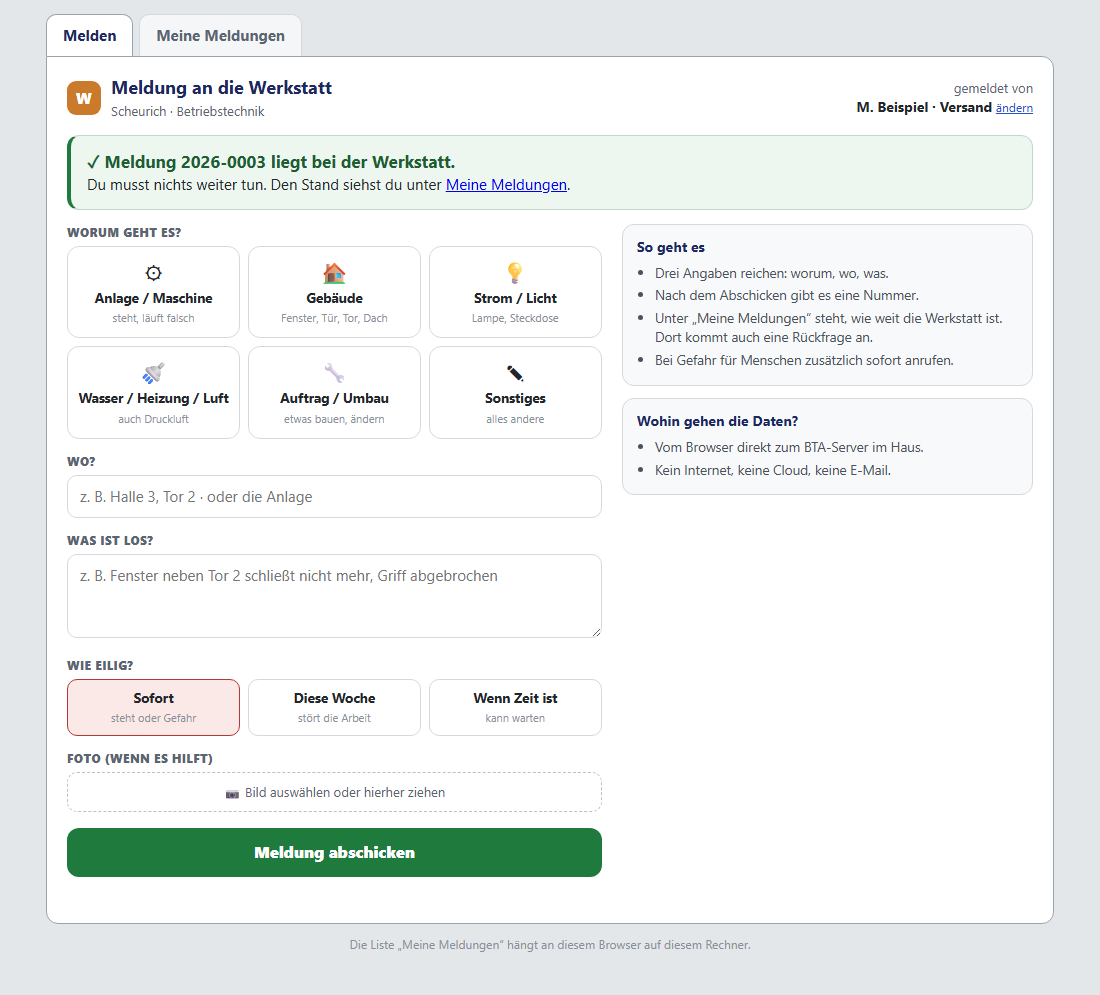
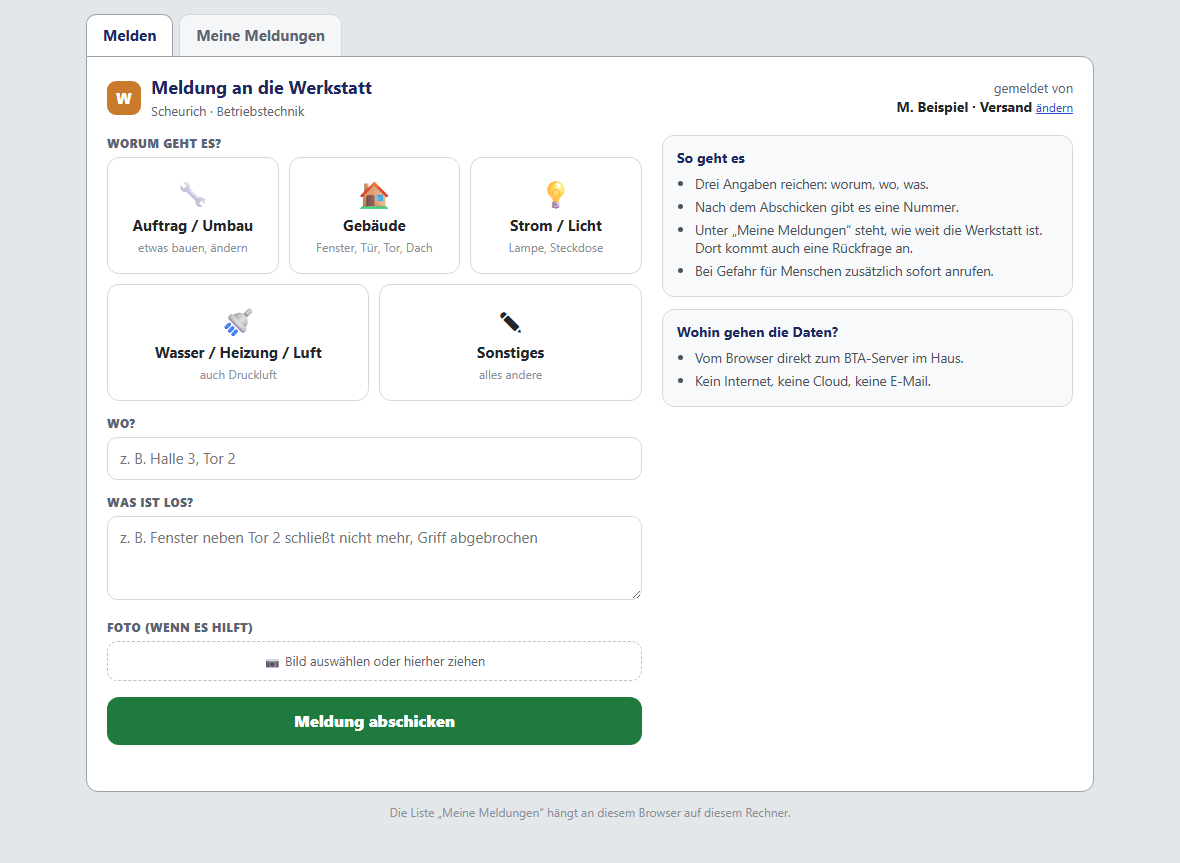
Roll-out 85: Melde-Seite ohne Kachel Anlage/Maschine, fuenf groessere Kacheln nach dem Abc (Robertos Ansage 25.11.) - Pruefung B11 mit Rot-Nachweis, am Server eingespielt

diff --git a/melden/ticket-melden.html b/melden/ticket-melden.html
@@ -35,12 +35,20 @@
   label.t:first-child { margin-top: 0; }
   .feld { width: 100%; border: 1px solid var(--rand); border-radius: 10px; padding: 10px 12px; font: inherit; background: #fff; color: inherit; }
   textarea.feld { min-height: 84px; resize: vertical; }
-  .kacheln { display: grid; grid-template-columns: repeat(3, minmax(0, 1fr)); gap: 8px; }
-  @media (max-width: 520px) { .kacheln { grid-template-columns: repeat(2, minmax(0, 1fr)); } }
-  .kachel { border: 1.5px solid var(--rand); border-radius: 12px; background: #fff; padding: 10px 8px; text-align: center; cursor: pointer; font: inherit; color: inherit; }
-  .kachel .bild { font-size: 22px; display: block; }
-  .kachel b { display: block; font-size: 13.5px; }
-  .kachel small { color: #8A9099; font-size: 11px; }
+  /* Fünf Kacheln (Robertos Ansage 25.11.: „Anlage muss raus, dafür die Kästchen etwas
+     größer und sortiert“): oben drei, unten zwei breitere - so bleibt keine Lücke.
+     Sechs Rasterspalten, damit sich 3 × 2 und 2 × 3 Spalten sauber teilen. */
+  .kacheln { display: grid; grid-template-columns: repeat(6, minmax(0, 1fr)); gap: 10px; }
+  .kachel { grid-column: span 2; border: 1.5px solid var(--rand); border-radius: 12px; background: #fff; padding: 16px 10px; text-align: center; cursor: pointer; font: inherit; color: inherit; }
+  .kachel:nth-child(n+4) { grid-column: span 3; }
+  @media (max-width: 520px) {
+    .kacheln { grid-template-columns: repeat(2, minmax(0, 1fr)); }
+    .kachel, .kachel:nth-child(n+4) { grid-column: span 1; }
+    .kachel:last-child { grid-column: span 2; }
+  }
+  .kachel .bild { font-size: 28px; display: block; margin-bottom: 2px; }
+  .kachel b { display: block; font-size: 15px; }
+  .kachel small { color: #8A9099; font-size: 12px; }
   .kachel[aria-pressed="true"] { border-color: var(--blau); background: #EDF0FA; box-shadow: inset 0 0 0 1px var(--blau); }
   .foto { border: 1.5px dashed #B8C0C8; border-radius: 10px; padding: 10px; text-align: center; color: var(--grau); font-size: 13px; cursor: pointer; }
   .foto.drueber { border-color: var(--blau); background: #EDF0FA; }
@@ -109,15 +117,16 @@
           <div>
             <label class="t">Worum geht es?</label>
             <div class="kacheln" id="arten">
-              <button type="button" class="kachel" aria-pressed="false" data-art="Anlage / Maschine"><span class="bild">⚙</span><b>Anlage / Maschine</b><small>steht, läuft falsch</small></button>
+              <!-- Nach dem Abc sortiert, „Sonstiges“ als Auffangbecken zuletzt. Störungen an
+                   Anlagen laufen über die Störberichte im Cockpit, nicht über diese Seite. -->
+              <button type="button" class="kachel" aria-pressed="false" data-art="Auftrag / Umbau"><span class="bild">🔧</span><b>Auftrag / Umbau</b><small>etwas bauen, ändern</small></button>
               <button type="button" class="kachel" aria-pressed="false" data-art="Gebäude"><span class="bild">🏠</span><b>Gebäude</b><small>Fenster, Tür, Tor, Dach</small></button>
               <button type="button" class="kachel" aria-pressed="false" data-art="Strom / Licht"><span class="bild">💡</span><b>Strom / Licht</b><small>Lampe, Steckdose</small></button>
               <button type="button" class="kachel" aria-pressed="false" data-art="Wasser / Heizung / Luft"><span class="bild">🚿</span><b>Wasser / Heizung / Luft</b><small>auch Druckluft</small></button>
-              <button type="button" class="kachel" aria-pressed="false" data-art="Auftrag / Umbau"><span class="bild">🔧</span><b>Auftrag / Umbau</b><small>etwas bauen, ändern</small></button>
               <button type="button" class="kachel" aria-pressed="false" data-art="Sonstiges"><span class="bild">✎</span><b>Sonstiges</b><small>alles andere</small></button>
             </div>
             <label class="t" for="ort">Wo?</label>
-            <input class="feld" id="ort" list="orte" maxlength="120" placeholder="z. B. Halle 3, Tor 2 · oder die Anlage">
+            <input class="feld" id="ort" list="orte" maxlength="120" placeholder="z. B. Halle 3, Tor 2">
             <datalist id="orte"></datalist>
             <label class="t" for="text">Was ist los?</label>
             <textarea class="feld" id="text" maxlength="2000" placeholder="z. B. Fenster neben Tor 2 schließt nicht mehr, Griff abgebrochen"></textarea>

diff --git a/tests/server/pruefe-tickets.js b/tests/server/pruefe-tickets.js
@@ -46,6 +46,8 @@
 //        nicht nach der Eile und zeigt sie auch in „Meine Meldungen“ nicht -
 //        die Meldung kommt trotzdem an (der Dienst 0.7.0 verlangt die Angabe,
 //        die Seite schickt deshalb immer denselben Wert mit).
+//  (B11) Robertos Ansage 25.11.: fünf Kacheln ohne „Anlage / Maschine“, nach dem
+//        Abc sortiert („Sonstiges“ zuletzt) und größer als bisher.
 //
 // Rot-Nachweis: DIENST_ORDNER=<Ordner mit dienst.js/db.js vom Stand 0.6.1>
 // node --no-warnings tests/server/pruefe-tickets.js  -> T1 ff. rot (kein Ticket-Weg),
@@ -225,6 +227,13 @@ const beende = (kind) => new Promise((r) => { kind.once("exit", r); kind.kill();
   await p.locator("#senden").click();
   const fehlt = await p.locator("#fehlt").innerText();
   ok("(B1) Leer abschicken nennt Name, Abteilung, worum, wo, was", /dein Name/.test(fehlt) && /deine Abteilung/.test(fehlt) && /worum es geht/.test(fehlt) && /\bwo\b/.test(fehlt) && /was los ist/.test(fehlt), fehlt);
+
+  /* (B11) Robertos Ansage 25.11.: „Anlage muss raus, dafür die Kästchen etwas größer und sortiert“ */
+  const kacheln = await p.locator("#arten .kachel").evaluateAll((z) => z.map((k) => ({ art: k.dataset.art, h: Math.round(k.getBoundingClientRect().height), b: Math.round(k.getBoundingClientRect().width) })));
+  const namen = kacheln.map((k) => k.art);
+  const sortiertSoll = [...namen.slice(0, -1)].sort((a, b) => a.localeCompare(b, "de"));
+  ok("(B11) Fünf Kacheln ohne „Anlage / Maschine“, nach dem Abc, „Sonstiges“ zuletzt", namen.length === 5 && !namen.some((n) => /Anlage|Maschine/.test(n)) && namen[4] === "Sonstiges" && namen.slice(0, -1).join("|") === sortiertSoll.join("|"), namen.join(" | "));
+  ok("(B11) Kacheln größer als bisher (gemessen 25.11.: bisher 93 px hoch): mindestens 110 px, im Platzhalter von „Wo?“ keine Anlage", kacheln.every((k) => k.h >= 110) && !/Anlage/.test(await p.locator("#ort").getAttribute("placeholder")), kacheln.map((k) => `${k.b}×${k.h}`).join(" "));
 
   /* (B10) erster Teil: das Formular kennt keine Eile mehr */
   const formularText = (await p.locator('[data-seite="melden"]').innerText()).replace(/\s+/g, " ");

diff --git a/ROLLOUT-LISTE.md b/ROLLOUT-LISTE.md
@@ -1271,7 +1271,7 @@ Kurzliste, Details stehen in den jeweiligen Blöcken darunter:
 
 84. **Schichten fortschreiben ins Jahr 2027** (Roberto 06.11., zwei Bilder des Schichtplans: „Die Schichten Früh / Spät / Spät mit Bereitschaft / Nacht / Bereitschaft am Wochenende müssen für alle Mitarbeiter kontinuierlich weiter gehen im selben Schema für 27“). **Gemessen 06.11. in den W:-Daten (nur gelesen):** 2684 SCHICHT-Einträge, davon 2663 als Tag (scope `tag`), nur 21 als Woche – der Plan lebt also tageweise; letzter Eintrag 31.12.2026, für 2027 nichts. Je Person läuft ein fester Takt, meist 12 Wochen (Balles, Becker, Giaquinta, Tiano, Yakar, Roberto), bei Kranich, Kilic, Ott, Wiesner 10 Wochen; Bereitschaft steht als `Bereits.` an Sa/So. Dazwischen Urlaub/Krank/Schule/Mainsite, die nicht zum Takt gehören; Weihnachten 2026 ist von Hand frei gelassen (25.12., 1.1.). **GEBAUT 06.11.:** `app/src/schichtmuster.js` (reine Rechenlogik, ohne React): `periodeErkennen` vergleicht Tag für Tag jede Woche mit der Woche p Wochen später – nur dort, wo beide Seiten eine Schema-Schicht tragen (leere Tage und Abwesenheiten sagen nichts), kürzester Takt mit ≥ 75 % Treffern und ≥ 20 Vergleichen gewinnt; `vorlageBauen` nimmt je Takt-Position und Wochentag die Mehrheit der letzten vier bekannten Durchläufe (Gleichstand: der jüngste) und macht aus Mo–Fr immer eine ganze Woche (Mehrheit ≥ 3 Tage, sonst leer); `fortschreibenFuer` schreibt ab der Woche nach der letzten Schema-Schicht (frühestens ab heute – ein Sommer-Urlaub 2027 blockiert nichts) bis zum Datum, überschreibt nie, lässt Feiertage frei. Im Schichtplan (nur mit Schreibrecht): Knopf **„↻ Schichten fortschreiben …“** → Dialog mit Datum (Vorgabe 31.12. des Folgejahres), je Person Takt, Trefferquote, Schema als Kürzel-Zellen, Start, Zahl neuer Einträge, Häkchen zum Abwählen; Übersprungene mit Grund („noch keine Schichten“, „kein gleichmäßiges Muster“, „zu wenig Wochen“); „N Einträge jetzt eintragen“ → ein `persist`, Fertig-Meldung. **Vorschau mit den echten W:-Daten (Bild `doku/bilder/schichten-fortschreiben-vorschau.png`):** 10 Personen erkannt, 1245 neue Einträge bis 31.12.2027; übersprungen: Xaver (Mainsite-Wochen), Azubis (Schule), M. Odenwald (zu wenig), Namen ohne Schichten. **Zu prüfen von Roberto vor dem Klick:** M Yakar – die Weihnachtswoche (KW 53: Früh) ist gegenüber seinem 12er-Takt um eine Woche verschoben, der Vorschlag macht ab KW 1 „Spät mit B, Nacht“ weiter; Roberto selbst bekommt aus seinen Daten nur Früh/Spät mit B und ein Bereitschafts-Wochenende. Einzelne Tage lassen sich danach wie immer per Klick ändern. **harte-114** (13 Prüfungen: Knopf, Dialog mit Takt 12 / Übersprungene, Vorschau = geschrieben, Takt-Tage 11.01./16.01./18.01./08.03./15.03., Takt-Lücke leer, Fronleichnam frei, 01.03. Urlaub bleibt, 2026 unverändert, keine doppelten Ids, Azubi ohne 2027, Rechenlogik direkt; **Rot-Nachweis gemessen 06.11.: gegen den Bau 3436226 F1 rot und Abbruch, neuer Bau 13/13**). Volle Suite über die Abgabe. **Noch nicht gedrückt:** das Eintragen in die echten Daten macht Roberto selbst im Cockpit (ein Klick, vorher die Vorschau lesen).
 
-85. **Ticketsystem: Meldungen an die Werkstatt ohne Cockpit** (Roberto 23.11.: „wie würde ein Ticketsystem aussehen? Benötigt jeder dafür unsere App oder geht das auch einfacher, kleiner?“ – dann: „Vorlage zeigen. Zur Info, dieses System läuft so: Abteilungsleiter melden darüber alles, nicht nur Anlage, sondern auch z. B. ‚Defektes Fenster‘ etc. Also QR-Codes benötigen wir nicht. Außerdem möchte ich ungern, dass Daten ins Netz gehen“). **Antwort:** Die App braucht nur die Werkstatt. Melder bekommen eine einzige kleine Seite im Browser, ausgeliefert vom BTA-Server im Haus (`http://v-btacockpit-1:8765/melden`) – kein Programm, kein Kennwort, kein Internet, kein Briefkasten/Cloudflare, kein QR. Ein Ticket ist im Kern ein To-do mit Nummer, Melder, Art, Ort, Eile und Stand; „Annehmen“ macht daraus ein To-do in der Planung (das automatische Einsortieren aus Punkt 66 zeigt, dass der Dienst das kann). **Vorlage geschickt 23.11.:** [`doku/vorlage-ticket-melden.html`](doku/vorlage-ticket-melden.html) – drei Reiter zum Durchklicken: (1) Melden: sechs Kacheln (Anlage/Maschine, Gebäude, Strom/Licht, Wasser/Heizung/Luft, Auftrag/Umbau, Sonstiges), Wo, Was ist los, Eile (Sofort / Diese Woche / Wenn Zeit ist), Foto, grüner Knopf, danach Nummer; (2) Meine Meldungen: Karten mit Stand (Neu, Angenommen, In Arbeit, Rückfrage, Erledigt), Zuständigem und Antwort der Werkstatt; (3) Tickets im Cockpit: Tabelle, „Sofort“ oben, Annehmen für eine Person, Rückfrage, Erledigt, rote Zahl am Reiter. **Gemessen an der Vorlage (Headless-Chromium):** leeres Abschicken nennt die fehlenden Angaben, Probe-Meldung „Defektes Fenster“ bekommt Nr. 2026-0147, steht in (2) und (3), Annehmen ändert den Stand in beiden, keine Skriptfehler, keine einzige Netzanfrage, bei 390 px Breite kein seitliches Rollen; Bilder `doku/bilder/ticket-1-melden.png`, `ticket-2-meine.png`, `ticket-3-werkstatt.png`. **Voraussetzungen / ungemessen:** (a) Tickets liegen am Server – die Werkstatt sieht sie erst nach dem Umschalttag (Punkt 81); (b) ob die PCs der Abteilungsleiter den Server auf Port 8765 erreichen, ist ungemessen (Probe: an einem solchen PC `http://v-btacockpit-1:8765/status` öffnen); (c) mit Werkstatt-Schlüssel (Punkt 80) braucht die Melde-Seite einen eigenen Weg, der nur Tickets anlegen und die eigenen lesen darf. **Entscheidungen offen (einzeln abfragen):** Kacheln so?; wer darf melden (Name + Abteilung frei eingeben und merken, oder feste Liste der Abteilungsleiter); sieht jeder nur die eigenen Meldungen oder alle seiner Abteilung; Benachrichtigung bei „Sofort“ (Monitor/Übersicht). Noch nichts gebaut außer der Vorlage. **Richtung bestätigt 23.11.** (Roberto: „passt als Richtung, den Rest schauen und bearbeiten wir später“) – der Punkt ruht, bis Roberto ihn wieder aufruft; dann zuerst die Erreichbarkeits-Probe (b), danach die Entscheidungen einzeln. **(b) gemessen 23.11., 14:06:** Roberto hat die Probe an einem Kollegen-PC machen lassen (Bild aus dem Chat) – die Status-Seite `http://v-btacockpit-1:8765/status` kommt dort an (Fassung 0.6.1, App 1212 kB). Gemessen ist damit EIN fremder PC; die übrigen Abteilungsleiter-PCs sind ungemessen (gleiche Probe, wenn es so weit ist). **GEBAUT 24.11.** (Roberto: „lass es uns bauen“) – noch NICHT am Server eingespielt. **Was gebaut ist:** (1) Dienst **0.7.0** (`server/dienst.js`, `server/db.js`): eigene Tabelle `tickets` (bewusst NICHT im Abgleich der Einträge – kein Ticket kann Version, Konflikt oder Export berühren), Nummer je Jahr in derselben Transaktion, Wege `POST/GET /api/<standort>/tickets` (Melder ohne Werkstatt-Schlüssel, erkannt an der Browser-Kennung im Kopf `X-BTA-Melder`; „eigene“ = dieselbe Kennung), `…/<nr>/antwort` (Melder), `POST …/<nr>` (Werkstatt, mit Schlüssel falls gesetzt, 409 bei Konflikt), `…/<nr>/foto`; Bremse 30 Meldungen je Rechner in zehn Minuten; Fotos in `ticket-fotos` des Standorts; Status-Seite mit Abschnitt „Tickets“. Damit ist Voraussetzung (c) erledigt. (2) Melde-Seite `melden/ticket-melden.html`, vom Dienst unter `/melden` (Soendgen: `/melden/soendgen`) ausgeliefert – liegt neben der App-Datei, `tools/abgabe.js --einspielen` legt sie dort ab (kein Dienst-Neustart für Änderungen an Kacheln/Texten). Name, Abteilung und Kennung merkt sich der Browser; kein Kennwort. Fällt der Server aus, bleibt der Text im Formular („NICHT angekommen“); kam nur die Antwort nicht an, sieht die Seite erst in den eigenen Meldungen nach, bevor ein zweites Ticket entsteht. (3) Cockpit: Reiter **Tickets** (`app/src/tickets.jsx`) mit roter Zahl; spricht direkt mit dem Dienst, **auch solange die Werkstatt über W: arbeitet – Voraussetzung (a) entfällt, Tickets brauchen den Umschalttag nicht.** Annehmen legt über den gewohnten Weg (persist) ein To-do an („Ticket <Nr>: …“, bei Sofort Prio hoch, Foto in der Foto-Ablage); Rückfrage, Erledigt, Wieder öffnen; Konflikt-Hinweis; gelber Balken, wenn der Server nicht antwortet. Rechte-Matrix: neue Zeile „Tickets“ (Bearbeiter bearbeiten, Leser aus). Den Server findet der Rechner über `ticket-server.json` im Update-Ordner auf W: (Muster der Umschalt-Datei) oder von Hand (Verwalter); ohne Adresse sieht nur der Verwalter den Reiter. **Gemessen 24.11.:** `tests/server/pruefe-tickets.js` 43/43 (Schnittstelle T1–T16, Status S1, Melde-Seite im Chromium B1–B9: kein Abruf an eine fremde Adresse, 390 px ohne seitliches Rollen); Rot-Nachweis gegen Dienst 0.6.1: T1 ff. rot. `tests/hardness/harte-115-tickets-im-cockpit.js` 13/13; Rot-Nachweis gegen den Bau vor 85 (1.240.888 Bytes): K1 rot. `pruefe-dienst` 40/40 und `pruefe-briefkasten` 60/60 gegen 0.7.0. Bilder vom echten Stand: `doku/bilder/ticket-echt-1-melden.png`, `-2-meine.png`, `-3-cockpit.png`. **Ungemessen:** echte Abteilungsleiter-PCs (welcher Browser dort läuft, ob er sich Name und Kennung merken darf); Programm-Hülle am Werkstatt-PC gegen den echten Server (im Test: Chromium mit `?ticketserver=`); Fund der `ticket-server.json` über die Brücke der Hülle (gleiches Muster wie die Umschalt-Datei, aber nicht eigens gemessen). **Einführung läuft seit 24.11.** (Roberto: „lass uns das Ticketsystem gleich einführen“). Abgabe 24.11. 07:19: Suite 107/107 (35,4 min), App 1.258.216 Bytes am Server (alte als `vor-2026-11-24-06-19`) und im Update-Ordner auf W:, Melde-Seite 30.353 Bytes neben der App, Commit aba8e2c. **E1 erledigt 24.11.:** Stick gebaut und an D:, Server-Kopie und W: verteilt (je 5 Dateien neu, 15 gleich, nichts entfernt); in der Server-Kopie `dienst.js`, `db.js`, `bta-kern.ps1` byte-gleich mit dem Repo, Fassung 0.7.0. Der Rückweg zu 0.6.1 liegt in Git (Commit eee1336, `server/dienst.js` 46.906 Bytes = die Datei, die bis dahin am Server lief). **E2 erledigt 24.11., 09:58:** Roberto hat die Remotedesktop-Sitzung geöffnet (Konto `SCHEURICH\serviceBTA`) und die Windows-Rückfrage „Als Administrator“ selbst bestätigt; die Klicks im Werkzeug liefen über die Bildschirm-Steuerung vom Laptop (Weiter → Karte „[D] Dienst tauschen auf Fassung 0.7.0“ → Ausfuehren → Rückfrage zeigte Dienst-Ordner `C:\BTA\BTA-Programm\Dienst`, Port 8765, Standorte „Scheurich, Soendgen Keramik“ → Ja). Werkzeug: „Erledigt – Dienst 0.7.0 antwortet auf Port 8765“. **Nachgemessen vom Laptop 09:59:** `/api/status` Fassung 0.7.0, gestartet 09:58:40; Scheurich Version 28, 4408 Einträge, 2933 Störberichte (Stand vor dem Tausch in dieser Sitzung nicht eigens gemessen – die Datenbank-Datei fasst der Tausch nicht an), Soendgen leer; Tickets 0/0/0 je Standort; `/melden`, `/melden/scheurich`, `/melden/soendgen` je 200 ohne übrig gebliebene Platzhalter; Status-Seite mit Abschnitt „Tickets“; `GET /api/scheurich/tickets` → 200 mit leerer Liste; „Fehler der letzten 24 Stunden“ leer (Punkt 86 wirkt); Briefkasten aktiv und erreichbar (`briefkasten.json` vom 07.10. unverändert); im Dienst-Ordner `dienst.js` 60.259 und `db.js` 28.508 Bytes, `einstellungen.json` neu geschrieben 09:58. **Beachten:** Ohne Werkstatt-Schlüssel (Punkt 80) kann jeder Rechner im Hausnetz die Werkstatt-Liste der Tickets lesen und Tickets ändern – wie heute schon bei den Einträgen am Server. **E3 erste Hälfte erledigt 24.11., 10:04** (Roberto: „Ja, Probe senden“): Probe-Meldung vom Laptop über die echte Melde-Seite `http://v-btacockpit-1:8765/melden` (Melder „Roberto (Probe)“, Abteilung Werkstatt, Kachel Sonstiges, „Wenn Zeit ist“). Seite: „✓ Meldung 2026-0001 liegt bei der Werkstatt“, Karte unter „Meine Meldungen“ mit Stand Neu. Unabhängig nachgemessen: `GET /api/scheurich/tickets` liefert 2026-0001 (Stand neu, Zahlen 1/1/1), Status-Seite Scheurich 1/1/1, Soendgen 0; Version der Einträge unverändert 28 mit 4408 Einträgen – das Ticket hat den Abgleich nicht berührt. Das Probe-Ticket bleibt stehen (löschen gibt es nicht; nach der Cockpit-Probe auf „Erledigt“ setzen). **E3 zweite Hälfte offen:** das Ticket im Cockpit sehen – Roberto als Verwalter: Reiter Tickets → Adresse `http://v-btacockpit-1:8765` eintragen → merken; misst zugleich die Programm-Hülle gegen den echten Server (bisher ungemessen). **E3 zweite Hälfte erledigt 24.11., 10:23 (Robertos Bild aus der Programm-Hülle am Laptop):** nach Eintippen der Adresse und „Merken“ zeigt der Reiter Tickets die rote 1 und die Zeile 2026-0001 (Roberto (Probe), Werkstatt, „Wenn Zeit ist“, Stand Neu), Fußzeile „Stand 24.11. 10:23 Uhr · Server v-btacockpit-1:8765“, oben die Melde-Adresse `http://v-btacockpit-1:8765/melden`; gemeinsame Datei dabei verbunden (Ordner-Symbol grün). Damit ist die Programm-Hülle gegen den echten Server gemessen (lesen). **Noch ungemessen:** Schreiben aus der Hülle (Annehmen, Rückfrage, Erledigt) am echten Server und der Fund der `ticket-server.json` über die Brücke. **Vor E4:** das Probe-Ticket im Cockpit auf „Erledigt“ setzen (misst den Schreibweg), damit die Werkstatt-Rechner nicht mit einer roten 1 für eine Probe starten. **Schreibweg gemessen 25.11., 06:23 (Server abgefragt, W:-Datei nur gelesen):** Roberto hat seit dem 24.11. im Cockpit weitergearbeitet – 2026-0001 (Probe) erledigt 24.11. 10:54; 2026-0002 „Licht geht nicht“ (Sofort), gemeldet 24.11. 10:54 von einem Kollegen aus der Logistik (**erste echte Meldung von einem fremden Rechner**), erledigt 11:53; 2026-0003 und 2026-0004 von Roberto selbst gemeldet (12:03/12:05), 2026-0004 am 25.11. 06:21:47 „zugeteilt an L Becker, angenommen“. Das zugehörige To-do steht in der W:-Daten-Datei (`ticketNr 2026-0004`, „Ticket 2026-0004: Heizkörper wird nicht Warm“, wer L Becker, erteilt von Roberto, Datei geschrieben 06:21:48) – Annehmen → To-do über den gewohnten Speicherweg funktioniert am echten Bestand. Melde-Seite im Browser des Laptops zeigt 2026-0001 als „✓ Erledigt“. Zahlen am Server 4 gesamt / 2 offen / 1 neu; Einträge am Server unverändert Version 28, 4408. Ein Fehler in 24 h: „Briefkasten (Takt): fetch failed“ 24.11. 14:25 (einmal, Briefkasten danach wieder erreichbar; hat mit den Tickets nichts zu tun). **Weiter ungemessen:** Rückfrage und Antwort des Melders am echten Server; Fund der `ticket-server.json` über die Brücke (kommt mit E4). **„Wie eilig?“ ist von der Melde-Seite weg (Roberto 25.11., Bild der Melde-Seite: „wie eilig muss weg“).** Entscheidung damit gefallen: Der Melder stuft nicht ein. **Gebaut und eingespielt 25.11., 06:26:** `melden/ticket-melden.html` ohne die drei Knöpfe, ohne Eile-Marke in „Meine Meldungen“ (28.961 Bytes; alte am Server aufgehoben als `ticket-melden.vor-2026-11-25-05-26.html`, 30.353 Bytes; kein Dienst-Neustart). Weil Dienst 0.7.0 die Angabe verlangt („Wie eilig fehlt“ → 400), schickt die Seite immer `eile: "woche"` mit (der bisher vorbelegte Wert). **Gemessen:** `pruefe-tickets` 45/45 mit neuer Prüfung (B10); **Rot-Nachweis mit der alten Seite (`MELDE_SEITE=…`): 43 PASS, 2 FAIL – beide (B10)**; am echten Server liefert `/melden` die neue Seite (keine Eile-Auswahl, Überschriften Worum/Wo/Was/Foto). Am echten Server nicht eigens abgeschickt (kein weiteres Probe-Ticket) – derselbe Dienst-Code lief im Prüfstand. **Cockpit ohne Eile (Roberto 25.11.: „Ja, ganz weg“) – GEBAUT 25.11.:** in `app/src/tickets.jsx` Spalte „Eile“, Eile-Marke, rote Zeile bei „Sofort“ und die Sortierung nach Eile entfernt (jetzt: neue Antworten der Melder oben, dann die jüngste Meldung zuerst); `ticketAlsTodo` setzt keine Prio mehr. Im selben Bau der kleine Punkt vom 24.11.: das Adressfeld des Verwalters ist mit `http://v-btacockpit-1:8765` vorbelegt, „Merken“ sofort bedienbar (abgerufen wird weiter erst nach dem Klick). **harte-115 jetzt 15 Prüfungen; Rot-Nachweis gemessen 25.11. gegen den Bau davor (1.258.216 Bytes): 11 PASS, 4 FAIL – (K2) Reihenfolge, (K2) Spalte „Eile“, (K3) Prio, (K10) Adressfeld; neuer Bau (1.257.919 Bytes) 15/15.** Volle Suite und Einspielen über die Abgabe (Ergebnis siehe unten bei „Abgabe 25.11.“). **Folge-Arbeit, offen:** (2) Dienst: `eile` nicht mehr verlangen – kommt mit dem nächsten Dienst-Tausch mit (kein eigener Servertermin), dann schickt die Seite nichts mehr. **Aufgefallen an Robertos Bild 24.11.:** Im Kasten „dieser Rechner kennt den BTA-Server noch nicht“ steht die Adresse nur als grauer Beispieltext im leeren Feld – das sieht aus wie schon ausgefüllt, „Merken“ bleibt aber grau. **Kleiner Bau, erledigt am 25.11. mit dem Bau „Cockpit ohne Eile“ (Feld vorbelegt, harte-115 K10) – ursprünglicher Plan:** das Feld für den Verwalter mit `http://v-btacockpit-1:8765` vorbelegen (abgerufen wird weiterhin erst nach „Merken“ – die Tests treffen den echten Server damit nicht) oder den Beispieltext klar als Beispiel kennzeichnen; Prüfung in harte-115 dazu. Nach E4 braucht das Feld kaum noch jemand, deshalb ohne Eile. **Einspielen – ein Schritt je Nachricht:** (E1) Stick-Kopie am Server auf 0.7.0 bringen (`node tools/stick-verteilen.js --bauen`), (E2) am Server Werkzeug → Einrichten → Kontrolle Status-Seite „Fassung 0.7.0“ und Abschnitt „Tickets“, (E3) Probe-Meldung über `/melden` vom Laptop, (E4) `ticket-server.json` (`{ "server": "http://v-btacockpit-1:8765" }`) in den Update-Ordner auf W: – erst danach sehen die Werkstatt-Rechner den Reiter, (E5) Link für die Abteilungsleiter. **Bewusst einfach gehalten / später:** „Meine Meldungen“ hängt am Browser (anderer PC oder gelöschte Browserdaten = leere Liste, die Tickets selbst bleiben bei der Werkstatt); keine Benachrichtigung außer der roten Zahl; Tickets erscheinen nicht auf dem Monitor und nicht in der Übersicht; kein Ausdruck, keine Auswertung. Die vier offenen Entscheidungen oben (Kacheln, wer meldet, eigene/Abteilung, Hinweis bei „Sofort“) sind mit dem Stand der Vorlage gebaut und bleiben änderbar.
+85. **Ticketsystem: Meldungen an die Werkstatt ohne Cockpit** (Roberto 23.11.: „wie würde ein Ticketsystem aussehen? Benötigt jeder dafür unsere App oder geht das auch einfacher, kleiner?“ – dann: „Vorlage zeigen. Zur Info, dieses System läuft so: Abteilungsleiter melden darüber alles, nicht nur Anlage, sondern auch z. B. ‚Defektes Fenster‘ etc. Also QR-Codes benötigen wir nicht. Außerdem möchte ich ungern, dass Daten ins Netz gehen“). **Antwort:** Die App braucht nur die Werkstatt. Melder bekommen eine einzige kleine Seite im Browser, ausgeliefert vom BTA-Server im Haus (`http://v-btacockpit-1:8765/melden`) – kein Programm, kein Kennwort, kein Internet, kein Briefkasten/Cloudflare, kein QR. Ein Ticket ist im Kern ein To-do mit Nummer, Melder, Art, Ort, Eile und Stand; „Annehmen“ macht daraus ein To-do in der Planung (das automatische Einsortieren aus Punkt 66 zeigt, dass der Dienst das kann). **Vorlage geschickt 23.11.:** [`doku/vorlage-ticket-melden.html`](doku/vorlage-ticket-melden.html) – drei Reiter zum Durchklicken: (1) Melden: sechs Kacheln (Anlage/Maschine, Gebäude, Strom/Licht, Wasser/Heizung/Luft, Auftrag/Umbau, Sonstiges), Wo, Was ist los, Eile (Sofort / Diese Woche / Wenn Zeit ist), Foto, grüner Knopf, danach Nummer; (2) Meine Meldungen: Karten mit Stand (Neu, Angenommen, In Arbeit, Rückfrage, Erledigt), Zuständigem und Antwort der Werkstatt; (3) Tickets im Cockpit: Tabelle, „Sofort“ oben, Annehmen für eine Person, Rückfrage, Erledigt, rote Zahl am Reiter. **Gemessen an der Vorlage (Headless-Chromium):** leeres Abschicken nennt die fehlenden Angaben, Probe-Meldung „Defektes Fenster“ bekommt Nr. 2026-0147, steht in (2) und (3), Annehmen ändert den Stand in beiden, keine Skriptfehler, keine einzige Netzanfrage, bei 390 px Breite kein seitliches Rollen; Bilder `doku/bilder/ticket-1-melden.png`, `ticket-2-meine.png`, `ticket-3-werkstatt.png`. **Voraussetzungen / ungemessen:** (a) Tickets liegen am Server – die Werkstatt sieht sie erst nach dem Umschalttag (Punkt 81); (b) ob die PCs der Abteilungsleiter den Server auf Port 8765 erreichen, ist ungemessen (Probe: an einem solchen PC `http://v-btacockpit-1:8765/status` öffnen); (c) mit Werkstatt-Schlüssel (Punkt 80) braucht die Melde-Seite einen eigenen Weg, der nur Tickets anlegen und die eigenen lesen darf. **Entscheidungen offen (einzeln abfragen):** Kacheln so?; wer darf melden (Name + Abteilung frei eingeben und merken, oder feste Liste der Abteilungsleiter); sieht jeder nur die eigenen Meldungen oder alle seiner Abteilung; Benachrichtigung bei „Sofort“ (Monitor/Übersicht). Noch nichts gebaut außer der Vorlage. **Richtung bestätigt 23.11.** (Roberto: „passt als Richtung, den Rest schauen und bearbeiten wir später“) – der Punkt ruht, bis Roberto ihn wieder aufruft; dann zuerst die Erreichbarkeits-Probe (b), danach die Entscheidungen einzeln. **(b) gemessen 23.11., 14:06:** Roberto hat die Probe an einem Kollegen-PC machen lassen (Bild aus dem Chat) – die Status-Seite `http://v-btacockpit-1:8765/status` kommt dort an (Fassung 0.6.1, App 1212 kB). Gemessen ist damit EIN fremder PC; die übrigen Abteilungsleiter-PCs sind ungemessen (gleiche Probe, wenn es so weit ist). **GEBAUT 24.11.** (Roberto: „lass es uns bauen“) – noch NICHT am Server eingespielt. **Was gebaut ist:** (1) Dienst **0.7.0** (`server/dienst.js`, `server/db.js`): eigene Tabelle `tickets` (bewusst NICHT im Abgleich der Einträge – kein Ticket kann Version, Konflikt oder Export berühren), Nummer je Jahr in derselben Transaktion, Wege `POST/GET /api/<standort>/tickets` (Melder ohne Werkstatt-Schlüssel, erkannt an der Browser-Kennung im Kopf `X-BTA-Melder`; „eigene“ = dieselbe Kennung), `…/<nr>/antwort` (Melder), `POST …/<nr>` (Werkstatt, mit Schlüssel falls gesetzt, 409 bei Konflikt), `…/<nr>/foto`; Bremse 30 Meldungen je Rechner in zehn Minuten; Fotos in `ticket-fotos` des Standorts; Status-Seite mit Abschnitt „Tickets“. Damit ist Voraussetzung (c) erledigt. (2) Melde-Seite `melden/ticket-melden.html`, vom Dienst unter `/melden` (Soendgen: `/melden/soendgen`) ausgeliefert – liegt neben der App-Datei, `tools/abgabe.js --einspielen` legt sie dort ab (kein Dienst-Neustart für Änderungen an Kacheln/Texten). Name, Abteilung und Kennung merkt sich der Browser; kein Kennwort. Fällt der Server aus, bleibt der Text im Formular („NICHT angekommen“); kam nur die Antwort nicht an, sieht die Seite erst in den eigenen Meldungen nach, bevor ein zweites Ticket entsteht. (3) Cockpit: Reiter **Tickets** (`app/src/tickets.jsx`) mit roter Zahl; spricht direkt mit dem Dienst, **auch solange die Werkstatt über W: arbeitet – Voraussetzung (a) entfällt, Tickets brauchen den Umschalttag nicht.** Annehmen legt über den gewohnten Weg (persist) ein To-do an („Ticket <Nr>: …“, bei Sofort Prio hoch, Foto in der Foto-Ablage); Rückfrage, Erledigt, Wieder öffnen; Konflikt-Hinweis; gelber Balken, wenn der Server nicht antwortet. Rechte-Matrix: neue Zeile „Tickets“ (Bearbeiter bearbeiten, Leser aus). Den Server findet der Rechner über `ticket-server.json` im Update-Ordner auf W: (Muster der Umschalt-Datei) oder von Hand (Verwalter); ohne Adresse sieht nur der Verwalter den Reiter. **Gemessen 24.11.:** `tests/server/pruefe-tickets.js` 43/43 (Schnittstelle T1–T16, Status S1, Melde-Seite im Chromium B1–B9: kein Abruf an eine fremde Adresse, 390 px ohne seitliches Rollen); Rot-Nachweis gegen Dienst 0.6.1: T1 ff. rot. `tests/hardness/harte-115-tickets-im-cockpit.js` 13/13; Rot-Nachweis gegen den Bau vor 85 (1.240.888 Bytes): K1 rot. `pruefe-dienst` 40/40 und `pruefe-briefkasten` 60/60 gegen 0.7.0. Bilder vom echten Stand: `doku/bilder/ticket-echt-1-melden.png`, `-2-meine.png`, `-3-cockpit.png`. **Ungemessen:** echte Abteilungsleiter-PCs (welcher Browser dort läuft, ob er sich Name und Kennung merken darf); Programm-Hülle am Werkstatt-PC gegen den echten Server (im Test: Chromium mit `?ticketserver=`); Fund der `ticket-server.json` über die Brücke der Hülle (gleiches Muster wie die Umschalt-Datei, aber nicht eigens gemessen). **Einführung läuft seit 24.11.** (Roberto: „lass uns das Ticketsystem gleich einführen“). Abgabe 24.11. 07:19: Suite 107/107 (35,4 min), App 1.258.216 Bytes am Server (alte als `vor-2026-11-24-06-19`) und im Update-Ordner auf W:, Melde-Seite 30.353 Bytes neben der App, Commit aba8e2c. **E1 erledigt 24.11.:** Stick gebaut und an D:, Server-Kopie und W: verteilt (je 5 Dateien neu, 15 gleich, nichts entfernt); in der Server-Kopie `dienst.js`, `db.js`, `bta-kern.ps1` byte-gleich mit dem Repo, Fassung 0.7.0. Der Rückweg zu 0.6.1 liegt in Git (Commit eee1336, `server/dienst.js` 46.906 Bytes = die Datei, die bis dahin am Server lief). **E2 erledigt 24.11., 09:58:** Roberto hat die Remotedesktop-Sitzung geöffnet (Konto `SCHEURICH\serviceBTA`) und die Windows-Rückfrage „Als Administrator“ selbst bestätigt; die Klicks im Werkzeug liefen über die Bildschirm-Steuerung vom Laptop (Weiter → Karte „[D] Dienst tauschen auf Fassung 0.7.0“ → Ausfuehren → Rückfrage zeigte Dienst-Ordner `C:\BTA\BTA-Programm\Dienst`, Port 8765, Standorte „Scheurich, Soendgen Keramik“ → Ja). Werkzeug: „Erledigt – Dienst 0.7.0 antwortet auf Port 8765“. **Nachgemessen vom Laptop 09:59:** `/api/status` Fassung 0.7.0, gestartet 09:58:40; Scheurich Version 28, 4408 Einträge, 2933 Störberichte (Stand vor dem Tausch in dieser Sitzung nicht eigens gemessen – die Datenbank-Datei fasst der Tausch nicht an), Soendgen leer; Tickets 0/0/0 je Standort; `/melden`, `/melden/scheurich`, `/melden/soendgen` je 200 ohne übrig gebliebene Platzhalter; Status-Seite mit Abschnitt „Tickets“; `GET /api/scheurich/tickets` → 200 mit leerer Liste; „Fehler der letzten 24 Stunden“ leer (Punkt 86 wirkt); Briefkasten aktiv und erreichbar (`briefkasten.json` vom 07.10. unverändert); im Dienst-Ordner `dienst.js` 60.259 und `db.js` 28.508 Bytes, `einstellungen.json` neu geschrieben 09:58. **Beachten:** Ohne Werkstatt-Schlüssel (Punkt 80) kann jeder Rechner im Hausnetz die Werkstatt-Liste der Tickets lesen und Tickets ändern – wie heute schon bei den Einträgen am Server. **E3 erste Hälfte erledigt 24.11., 10:04** (Roberto: „Ja, Probe senden“): Probe-Meldung vom Laptop über die echte Melde-Seite `http://v-btacockpit-1:8765/melden` (Melder „Roberto (Probe)“, Abteilung Werkstatt, Kachel Sonstiges, „Wenn Zeit ist“). Seite: „✓ Meldung 2026-0001 liegt bei der Werkstatt“, Karte unter „Meine Meldungen“ mit Stand Neu. Unabhängig nachgemessen: `GET /api/scheurich/tickets` liefert 2026-0001 (Stand neu, Zahlen 1/1/1), Status-Seite Scheurich 1/1/1, Soendgen 0; Version der Einträge unverändert 28 mit 4408 Einträgen – das Ticket hat den Abgleich nicht berührt. Das Probe-Ticket bleibt stehen (löschen gibt es nicht; nach der Cockpit-Probe auf „Erledigt“ setzen). **E3 zweite Hälfte offen:** das Ticket im Cockpit sehen – Roberto als Verwalter: Reiter Tickets → Adresse `http://v-btacockpit-1:8765` eintragen → merken; misst zugleich die Programm-Hülle gegen den echten Server (bisher ungemessen). **E3 zweite Hälfte erledigt 24.11., 10:23 (Robertos Bild aus der Programm-Hülle am Laptop):** nach Eintippen der Adresse und „Merken“ zeigt der Reiter Tickets die rote 1 und die Zeile 2026-0001 (Roberto (Probe), Werkstatt, „Wenn Zeit ist“, Stand Neu), Fußzeile „Stand 24.11. 10:23 Uhr · Server v-btacockpit-1:8765“, oben die Melde-Adresse `http://v-btacockpit-1:8765/melden`; gemeinsame Datei dabei verbunden (Ordner-Symbol grün). Damit ist die Programm-Hülle gegen den echten Server gemessen (lesen). **Noch ungemessen:** Schreiben aus der Hülle (Annehmen, Rückfrage, Erledigt) am echten Server und der Fund der `ticket-server.json` über die Brücke. **Vor E4:** das Probe-Ticket im Cockpit auf „Erledigt“ setzen (misst den Schreibweg), damit die Werkstatt-Rechner nicht mit einer roten 1 für eine Probe starten. **Schreibweg gemessen 25.11., 06:23 (Server abgefragt, W:-Datei nur gelesen):** Roberto hat seit dem 24.11. im Cockpit weitergearbeitet – 2026-0001 (Probe) erledigt 24.11. 10:54; 2026-0002 „Licht geht nicht“ (Sofort), gemeldet 24.11. 10:54 von einem Kollegen aus der Logistik (**erste echte Meldung von einem fremden Rechner**), erledigt 11:53; 2026-0003 und 2026-0004 von Roberto selbst gemeldet (12:03/12:05), 2026-0004 am 25.11. 06:21:47 „zugeteilt an L Becker, angenommen“. Das zugehörige To-do steht in der W:-Daten-Datei (`ticketNr 2026-0004`, „Ticket 2026-0004: Heizkörper wird nicht Warm“, wer L Becker, erteilt von Roberto, Datei geschrieben 06:21:48) – Annehmen → To-do über den gewohnten Speicherweg funktioniert am echten Bestand. Melde-Seite im Browser des Laptops zeigt 2026-0001 als „✓ Erledigt“. Zahlen am Server 4 gesamt / 2 offen / 1 neu; Einträge am Server unverändert Version 28, 4408. Ein Fehler in 24 h: „Briefkasten (Takt): fetch failed“ 24.11. 14:25 (einmal, Briefkasten danach wieder erreichbar; hat mit den Tickets nichts zu tun). **Weiter ungemessen:** Rückfrage und Antwort des Melders am echten Server; Fund der `ticket-server.json` über die Brücke (kommt mit E4). **„Wie eilig?“ ist von der Melde-Seite weg (Roberto 25.11., Bild der Melde-Seite: „wie eilig muss weg“).** Entscheidung damit gefallen: Der Melder stuft nicht ein. **Gebaut und eingespielt 25.11., 06:26:** `melden/ticket-melden.html` ohne die drei Knöpfe, ohne Eile-Marke in „Meine Meldungen“ (28.961 Bytes; alte am Server aufgehoben als `ticket-melden.vor-2026-11-25-05-26.html`, 30.353 Bytes; kein Dienst-Neustart). Weil Dienst 0.7.0 die Angabe verlangt („Wie eilig fehlt“ → 400), schickt die Seite immer `eile: "woche"` mit (der bisher vorbelegte Wert). **Gemessen:** `pruefe-tickets` 45/45 mit neuer Prüfung (B10); **Rot-Nachweis mit der alten Seite (`MELDE_SEITE=…`): 43 PASS, 2 FAIL – beide (B10)**; am echten Server liefert `/melden` die neue Seite (keine Eile-Auswahl, Überschriften Worum/Wo/Was/Foto). Am echten Server nicht eigens abgeschickt (kein weiteres Probe-Ticket) – derselbe Dienst-Code lief im Prüfstand. **Cockpit ohne Eile (Roberto 25.11.: „Ja, ganz weg“) – GEBAUT 25.11.:** in `app/src/tickets.jsx` Spalte „Eile“, Eile-Marke, rote Zeile bei „Sofort“ und die Sortierung nach Eile entfernt (jetzt: neue Antworten der Melder oben, dann die jüngste Meldung zuerst); `ticketAlsTodo` setzt keine Prio mehr. Im selben Bau der kleine Punkt vom 24.11.: das Adressfeld des Verwalters ist mit `http://v-btacockpit-1:8765` vorbelegt, „Merken“ sofort bedienbar (abgerufen wird weiter erst nach dem Klick). **harte-115 jetzt 15 Prüfungen; Rot-Nachweis gemessen 25.11. gegen den Bau davor (1.258.216 Bytes): 11 PASS, 4 FAIL – (K2) Reihenfolge, (K2) Spalte „Eile“, (K3) Prio, (K10) Adressfeld; neuer Bau (1.257.919 Bytes) 15/15.** **Abgabe 25.11., 07:22:** Suite 107/107 (35,8 min); App 1.257.919 Bytes am Server byte-gleich (alte als `Werkstatt_Kalender_TPM.vor-2026-11-25-06-22.html`), Status-Seite sieht sie; im Update-Ordner auf W: als `Werkstatt_Kalender_TPM - 2026-11-25-0622.html`; Commit bbec41f gepusht, Prüfstand gleichgezogen. Die Werkstatt-Rechner bekommen den Stand beim nächsten Start. **Melde-Seite: Kachel „Anlage / Maschine“ raus, Kacheln größer und sortiert (Roberto 25.11., Bild der Melde-Seite: „WO? benötigt zusätzlich ein Dropdown und Anlage muss raus, dafür die Kästchen etwas größer und sortiert“).** **Gebaut und eingespielt 25.11., 07:23:** fünf Kacheln nach dem Abc (Auftrag / Umbau, Gebäude, Strom / Licht, Wasser / Heizung / Luft, zuletzt Sonstiges), oben drei, unten zwei breitere; Höhe 117 statt 93 px (gemessen), Bild und Schrift größer; im Platzhalter von „Wo?“ steht keine Anlage mehr. Am Server 29.409 Bytes (vorige als `ticket-melden.vor-2026-11-25-06-24.html`). `pruefe-tickets` 47/47 mit neuer Prüfung (B11); **Rot-Nachweis mit der vorigen Seite: 45 PASS, 2 FAIL – beide (B11)**. Bilder vom echten Server: `doku/bilder/ticket-echt-1-melden.png` (1180 px) und `ticket-echt-1-melden-handy.png` (390 px, zwei Spalten, „Sonstiges“ über die ganze Breite). **Offen: Dropdown bei „Wo?“** – das Textfeld bleibt (Roberto: „die Funktion, händisch etwas einzutragen, darf trotzdem nicht weg“): links der Bereich aus einer festen Liste in der Seite (letzter Eintrag „Anderer Ort“), rechts der freie Text; im Ticket steht „Bereich · Text“. Das Cockpit kennt keine Liste von Hallen/Bereichen (nur 17 Anlagen, 150 Kostenstellen) – zwei Vorschläge aus den Kostenstellen liegen bei Roberto (A kurz: Außengelände, Beschichtung, Dreherei / Presserei, Lager / Versand, Masseaufbereitung, Öfen, Sortiererei / Verpackung, Sozialräume / WC, Verwaltung / Zentrale, Werkstatt; B genauer mit 17 Bereichen); ungeklärt, was „V3“ in der Meldung 2026-0002 bedeutet. Gebaut wird, sobald Roberto die Liste nennt. **Folge-Arbeit, offen:** (2) Dienst: `eile` nicht mehr verlangen – kommt mit dem nächsten Dienst-Tausch mit (kein eigener Servertermin), dann schickt die Seite nichts mehr. **Aufgefallen an Robertos Bild 24.11.:** Im Kasten „dieser Rechner kennt den BTA-Server noch nicht“ steht die Adresse nur als grauer Beispieltext im leeren Feld – das sieht aus wie schon ausgefüllt, „Merken“ bleibt aber grau. **Kleiner Bau, erledigt am 25.11. mit dem Bau „Cockpit ohne Eile“ (Feld vorbelegt, harte-115 K10) – ursprünglicher Plan:** das Feld für den Verwalter mit `http://v-btacockpit-1:8765` vorbelegen (abgerufen wird weiterhin erst nach „Merken“ – die Tests treffen den echten Server damit nicht) oder den Beispieltext klar als Beispiel kennzeichnen; Prüfung in harte-115 dazu. Nach E4 braucht das Feld kaum noch jemand, deshalb ohne Eile. **Einspielen – ein Schritt je Nachricht:** (E1) Stick-Kopie am Server auf 0.7.0 bringen (`node tools/stick-verteilen.js --bauen`), (E2) am Server Werkzeug → Einrichten → Kontrolle Status-Seite „Fassung 0.7.0“ und Abschnitt „Tickets“, (E3) Probe-Meldung über `/melden` vom Laptop, (E4) `ticket-server.json` (`{ "server": "http://v-btacockpit-1:8765" }`) in den Update-Ordner auf W: – erst danach sehen die Werkstatt-Rechner den Reiter, (E5) Link für die Abteilungsleiter. **Bewusst einfach gehalten / später:** „Meine Meldungen“ hängt am Browser (anderer PC oder gelöschte Browserdaten = leere Liste, die Tickets selbst bleiben bei der Werkstatt); keine Benachrichtigung außer der roten Zahl; Tickets erscheinen nicht auf dem Monitor und nicht in der Übersicht; kein Ausdruck, keine Auswertung. Die vier offenen Entscheidungen oben (Kacheln, wer meldet, eigene/Abteilung, Hinweis bei „Sofort“) sind mit dem Stand der Vorlage gebaut und bleiben änderbar.
 
 86. **Status-Seite: „Fehler der letzten 24 Stunden“ zeigt ältere Fehler** (aufgefallen 23.11. am Bild zu Punkt 85, nachgemessen vom Laptop: um 14:07 standen dort zwei Briefkasten-Fehler vom 20.11. 19:07 und 21.11. 12:23). Ursache in `server/dienst.js` Zeile 101: alte Fehler werden nur aussortiert, wenn ein NEUER Fehler geschrieben wird – beim Lesen wird nicht gefiltert. Harmlos (der Briefkasten war zum Messzeitpunkt „erreichbar“, letzter Takt 14:07), aber die Überschrift stimmt nicht. **Bau:** beim Lesen filtern (`fehlerLetzte24h()` gibt nur Einträge jünger als 24 h zurück), Prüfstand-Fall dazu. Kommt mit dem nächsten Dienst-Roll-out mit, kein eigener Servertermin. **GEBAUT 24.11.** in Dienst 0.7.0 (zusammen mit Punkt 85): `fehlerLetzte24h()` filtert beim Lesen; Prüfung (S1) in `tests/server/pruefe-tickets.js` mit gestellter Uhr (Fehler nach 2 h noch da, nach drei Tagen weg). Wirkt am Server erst nach dem Einspielen von 0.7.0 (Punkt 85, Schritt E2). **Am Server seit 24.11., 09:58** (Dienst 0.7.0; `fehlerLetzte24h` um 09:59 leer gemessen).
 

diff --git a/README.md b/README.md
@@ -159,7 +159,7 @@ node --no-warnings tests/server/pruefe-dienst-last.js   # Dienst unter Last (16.
 node --no-warnings tests/server/pruefe-app-am-server.js   # die gebaute App gegen den echten Dienst (Etappe C; C14/C15 = Handy-Aufnahme)
 node --no-warnings tests/server/pruefe-quellen-am-server.js   # Excel-Quellen im Server-Betrieb: Kopie, Zubringer, Browser (Roll-out 54)
 node --no-warnings tests/server/pruefe-briefkasten.js   # Briefkasten: Kern, Worker-Attrappe, Zettel -> Briefkasten -> Dienst 0.6.0 -> PC, Warteschlange ohne Netz, Zettel vom Briefkasten (/zettel, Einrichtungs-Link), automatisches Einsortieren, Marke statt Liste im Takt (Roll-out 65/66/68)
-node --no-warnings tests/server/pruefe-tickets.js   # Tickets (Roll-out 85/86): Melden ohne Schlüssel, eigene Meldungen, Werkstatt-Liste, Konflikt, Foto, Bremse, Neustart, Melde-Seite im Browser (45 Prüfungen); Rot-Nachweis mit DIENST_ORDNER=<alter Dienst> bzw. MELDE_SEITE=<ältere Melde-Seite>
+node --no-warnings tests/server/pruefe-tickets.js   # Tickets (Roll-out 85/86): Melden ohne Schlüssel, eigene Meldungen, Werkstatt-Liste, Konflikt, Foto, Bremse, Neustart, Melde-Seite im Browser (47 Prüfungen); Rot-Nachweis mit DIENST_ORDNER=<alter Dienst> bzw. MELDE_SEITE=<ältere Melde-Seite>
 node briefkasten/worker-bauen.js --pruefen   # ist worker.js auf dem Stand von kern.js und handy/aufnahme-zettel.html? (ohne --pruefen: neu bauen)
 ```
 

diff --git a/doku/ANLEITUNG.md b/doku/ANLEITUNG.md
@@ -961,8 +961,8 @@ Störungen, nicht den Rest.
   - **Melden** geht ohne Cockpit: im Browser die Seite
     `http://v-btacockpit-1:8765/melden` öffnen (Link auf den Desktop legen).
     Beim ersten Mal Name und Abteilung eintragen, dann Kachel wählen
-    (Anlage/Maschine, Gebäude, Strom/Licht, Wasser/Heizung/Luft,
-    Auftrag/Umbau, Sonstiges), **Wo**, **Was ist los**, wahlweise
+    (Auftrag/Umbau, Gebäude, Strom/Licht, Wasser/Heizung/Luft, Sonstiges –
+    Störungen an Anlagen laufen über die Störberichte im Cockpit), **Wo**, **Was ist los**, wahlweise
     ein Foto – abschicken. Nach der Eile wird der Melder seit dem 25.11. nicht
     mehr gefragt; wie dringend etwas ist, entscheidet die Werkstatt.
     Es gibt eine Nummer (z. B. 2026-0147). Unter
